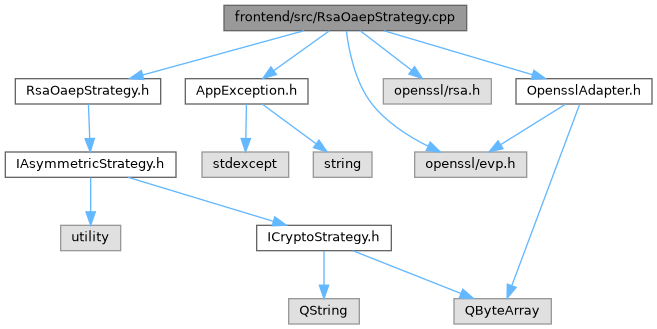
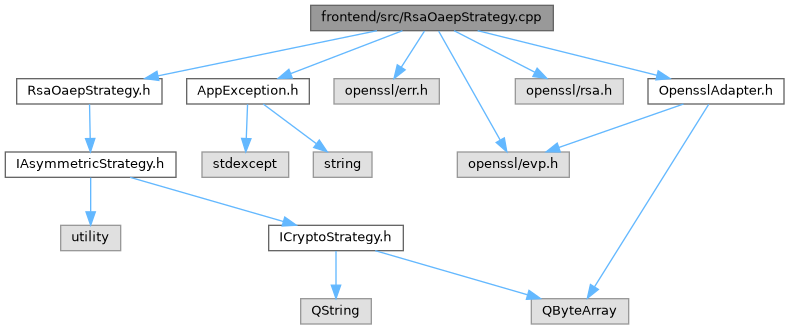
deploy: 8b2d20333b106642986e77c233f5373d51c01b63

diff --git a/NetworkManager_8h_source.html b/NetworkManager_8h_source.html
@@ -292,28 +292,28 @@ $(document).ready(function(){initNavTree('NetworkManager_8h_source.html',''); in
 <div class="ttc" id="aclassNetworkManager_html_a1e431ffe571e89103864c08eaea12488"><div class="ttname"><a href="classNetworkManager.html#a1e431ffe571e89103864c08eaea12488">NetworkManager::historySyncMessage</a></div><div class="ttdeci">void historySyncMessage(const QString &amp;peer, const QString &amp;sender, const QString &amp;content, const QString &amp;timestamp, bool isOutgoing)</div><div class="ttdoc">Emitted once per stored message during local history load on login.</div></div>
 <div class="ttc" id="aclassNetworkManager_html_a1ebefc3b8b1ad69040decb2ed1f3cb57"><div class="ttname"><a href="classNetworkManager.html#a1ebefc3b8b1ad69040decb2ed1f3cb57">NetworkManager::groupMessageDecrypted</a></div><div class="ttdeci">void groupMessageDecrypted(const QString &amp;groupId, const QString &amp;sender, const QString &amp;plaintext, const QString &amp;timestamp, bool isOutgoing)</div><div class="ttdoc">Emitted when an incoming group message is successfully decrypted.</div></div>
 <div class="ttc" id="aclassNetworkManager_html_a257318584ac0bf9569d5873314ad5d82"><div class="ttname"><a href="classNetworkManager.html#a257318584ac0bf9569d5873314ad5d82">NetworkManager::convListUpdated</a></div><div class="ttdeci">void convListUpdated(const QString &amp;peer, const QString &amp;lastMessage, const QString &amp;lastTimestamp)</div><div class="ttdoc">Emitted after loading local history and on new messages - updates conversation list.</div></div>
-<div class="ttc" id="aclassNetworkManager_html_a2e9f2e60df7673bec45af42c104d4f72"><div class="ttname"><a href="classNetworkManager.html#a2e9f2e60df7673bec45af42c104d4f72">NetworkManager::logout</a></div><div class="ttdeci">Q_INVOKABLE void logout()</div><div class="ttdoc">Clear session state and return to login without closing the WebSocket.</div><div class="ttdef"><b>Definition</b> NetworkManager.cpp:344</div></div>
+<div class="ttc" id="aclassNetworkManager_html_a2e9f2e60df7673bec45af42c104d4f72"><div class="ttname"><a href="classNetworkManager.html#a2e9f2e60df7673bec45af42c104d4f72">NetworkManager::logout</a></div><div class="ttdeci">Q_INVOKABLE void logout()</div><div class="ttdoc">Clear session state and return to login without closing the WebSocket.</div><div class="ttdef"><b>Definition</b> NetworkManager.cpp:349</div></div>
 <div class="ttc" id="aclassNetworkManager_html_a2f815193125adfb0eb520665d8a87f5c"><div class="ttname"><a href="classNetworkManager.html#a2f815193125adfb0eb520665d8a87f5c">NetworkManager::sendLogin</a></div><div class="ttdeci">Q_INVOKABLE void sendLogin(const QString &amp;username, const QString &amp;password)</div><div class="ttdoc">Send a LOGIN packet with username and password.</div><div class="ttdef"><b>Definition</b> NetworkManager.cpp:52</div></div>
-<div class="ttc" id="aclassNetworkManager_html_a33e99021de03ebe32588f703e0a27cdc"><div class="ttname"><a href="classNetworkManager.html#a33e99021de03ebe32588f703e0a27cdc">NetworkManager::deleteGroup</a></div><div class="ttdeci">Q_INVOKABLE void deleteGroup(const QString &amp;groupId)</div><div class="ttdoc">Send DELETE_GROUP packet to permanently delete the group (creator only).</div><div class="ttdef"><b>Definition</b> NetworkManager.cpp:482</div></div>
+<div class="ttc" id="aclassNetworkManager_html_a33e99021de03ebe32588f703e0a27cdc"><div class="ttname"><a href="classNetworkManager.html#a33e99021de03ebe32588f703e0a27cdc">NetworkManager::deleteGroup</a></div><div class="ttdeci">Q_INVOKABLE void deleteGroup(const QString &amp;groupId)</div><div class="ttdoc">Send DELETE_GROUP packet to permanently delete the group (creator only).</div><div class="ttdef"><b>Definition</b> NetworkManager.cpp:487</div></div>
 <div class="ttc" id="aclassNetworkManager_html_a3c9d18963e77a155faf338b86927e2e5"><div class="ttname"><a href="classNetworkManager.html#a3c9d18963e77a155faf338b86927e2e5">NetworkManager::disconnected</a></div><div class="ttdeci">void disconnected()</div></div>
-<div class="ttc" id="aclassNetworkManager_html_a42fd9a51d9f3036d7156a0d64bdbd08d"><div class="ttname"><a href="classNetworkManager.html#a42fd9a51d9f3036d7156a0d64bdbd08d">NetworkManager::leaveGroup</a></div><div class="ttdeci">Q_INVOKABLE void leaveGroup(const QString &amp;groupId)</div><div class="ttdoc">Leave a group voluntarily.</div><div class="ttdef"><b>Definition</b> NetworkManager.cpp:474</div></div>
-<div class="ttc" id="aclassNetworkManager_html_a487b7f0a5ef2af0dfd9e2b53959d308c"><div class="ttname"><a href="classNetworkManager.html#a487b7f0a5ef2af0dfd9e2b53959d308c">NetworkManager::grantAdmin</a></div><div class="ttdeci">Q_INVOKABLE void grantAdmin(const QString &amp;groupId, const QString &amp;username)</div><div class="ttdoc">Creator: grant admin role to a member.</div><div class="ttdef"><b>Definition</b> NetworkManager.cpp:464</div></div>
-<div class="ttc" id="aclassNetworkManager_html_a4cbb3b8a327c5af1f67b65a8cfe0ab8d"><div class="ttname"><a href="classNetworkManager.html#a4cbb3b8a327c5af1f67b65a8cfe0ab8d">NetworkManager::sendGroupMessage</a></div><div class="ttdeci">Q_INVOKABLE void sendGroupMessage(const QString &amp;groupId, const QString &amp;plaintext, const QString &amp;timestamp)</div><div class="ttdoc">Encrypt and send a group message.</div><div class="ttdef"><b>Definition</b> NetworkManager.cpp:404</div></div>
+<div class="ttc" id="aclassNetworkManager_html_a42fd9a51d9f3036d7156a0d64bdbd08d"><div class="ttname"><a href="classNetworkManager.html#a42fd9a51d9f3036d7156a0d64bdbd08d">NetworkManager::leaveGroup</a></div><div class="ttdeci">Q_INVOKABLE void leaveGroup(const QString &amp;groupId)</div><div class="ttdoc">Leave a group voluntarily.</div><div class="ttdef"><b>Definition</b> NetworkManager.cpp:479</div></div>
+<div class="ttc" id="aclassNetworkManager_html_a487b7f0a5ef2af0dfd9e2b53959d308c"><div class="ttname"><a href="classNetworkManager.html#a487b7f0a5ef2af0dfd9e2b53959d308c">NetworkManager::grantAdmin</a></div><div class="ttdeci">Q_INVOKABLE void grantAdmin(const QString &amp;groupId, const QString &amp;username)</div><div class="ttdoc">Creator: grant admin role to a member.</div><div class="ttdef"><b>Definition</b> NetworkManager.cpp:469</div></div>
+<div class="ttc" id="aclassNetworkManager_html_a4cbb3b8a327c5af1f67b65a8cfe0ab8d"><div class="ttname"><a href="classNetworkManager.html#a4cbb3b8a327c5af1f67b65a8cfe0ab8d">NetworkManager::sendGroupMessage</a></div><div class="ttdeci">Q_INVOKABLE void sendGroupMessage(const QString &amp;groupId, const QString &amp;plaintext, const QString &amp;timestamp)</div><div class="ttdoc">Encrypt and send a group message.</div><div class="ttdef"><b>Definition</b> NetworkManager.cpp:409</div></div>
 <div class="ttc" id="aclassNetworkManager_html_a57295b0fe8b8dcb07c51e40e3b7f01c5"><div class="ttname"><a href="classNetworkManager.html#a57295b0fe8b8dcb07c51e40e3b7f01c5">NetworkManager::groupHistorySyncMessage</a></div><div class="ttdeci">void groupHistorySyncMessage(const QString &amp;groupId, const QString &amp;sender, const QString &amp;content, const QString &amp;timestamp, bool isOutgoing)</div><div class="ttdoc">Emitted once per group message during local history load.</div></div>
 <div class="ttc" id="aclassNetworkManager_html_a5a95bfdbdf91e47e8341ef89bae23b9d"><div class="ttname"><a href="classNetworkManager.html#a5a95bfdbdf91e47e8341ef89bae23b9d">NetworkManager::currentUsernameChanged</a></div><div class="ttdeci">void currentUsernameChanged()</div></div>
 <div class="ttc" id="aclassNetworkManager_html_a5e470cae21687ac465bd3ded727f5c88"><div class="ttname"><a href="classNetworkManager.html#a5e470cae21687ac465bd3ded727f5c88">NetworkManager::messageSeen</a></div><div class="ttdeci">void messageSeen(const QString &amp;peer, const QString &amp;timestamp)</div><div class="ttdoc">Emitted when the recipient confirms they have read a specific message.</div></div>
 <div class="ttc" id="aclassNetworkManager_html_a603d801e6200da430707381ba39241c2"><div class="ttname"><a href="classNetworkManager.html#a603d801e6200da430707381ba39241c2">NetworkManager::messageReceived</a></div><div class="ttdeci">void messageReceived(const QString &amp;message)</div><div class="ttdoc">Raw inbound wire message forwarded to QML.</div></div>
 <div class="ttc" id="aclassNetworkManager_html_a63f17e322ae0d09f6c0c1d8b9c54a0b5"><div class="ttname"><a href="classNetworkManager.html#a63f17e322ae0d09f6c0c1d8b9c54a0b5">NetworkManager::connectionChanged</a></div><div class="ttdeci">void connectionChanged()</div></div>
 <div class="ttc" id="aclassNetworkManager_html_a6b6ee9cf02e7df2a766d5db74c4d2125"><div class="ttname"><a href="classNetworkManager.html#a6b6ee9cf02e7df2a766d5db74c4d2125">NetworkManager::errorOcurred</a></div><div class="ttdeci">void errorOcurred(const QString &amp;errorString)</div></div>
-<div class="ttc" id="aclassNetworkManager_html_a755b08070053e360640b1b9caa4d737d"><div class="ttname"><a href="classNetworkManager.html#a755b08070053e360640b1b9caa4d737d">NetworkManager::createGroup</a></div><div class="ttdeci">Q_INVOKABLE void createGroup(const QString &amp;name, const QStringList &amp;members)</div><div class="ttdoc">Create a new group. Encrypts AES key for each member via RSA.</div><div class="ttdef"><b>Definition</b> NetworkManager.cpp:370</div></div>
+<div class="ttc" id="aclassNetworkManager_html_a755b08070053e360640b1b9caa4d737d"><div class="ttname"><a href="classNetworkManager.html#a755b08070053e360640b1b9caa4d737d">NetworkManager::createGroup</a></div><div class="ttdeci">Q_INVOKABLE void createGroup(const QString &amp;name, const QStringList &amp;members)</div><div class="ttdoc">Create a new group. Encrypts AES key for each member via RSA.</div><div class="ttdef"><b>Definition</b> NetworkManager.cpp:375</div></div>
 <div class="ttc" id="aclassNetworkManager_html_a91ed9c1374f6c18b78c66aec883da39a"><div class="ttname"><a href="classNetworkManager.html#a91ed9c1374f6c18b78c66aec883da39a">NetworkManager::syncComplete</a></div><div class="ttdeci">void syncComplete()</div><div class="ttdoc">Emitted after the server ACKs a SYNC_HISTORY request.</div></div>
 <div class="ttc" id="aclassNetworkManager_html_a9bc6679afab43814e185aecb262cedaa"><div class="ttname"><a href="classNetworkManager.html#a9bc6679afab43814e185aecb262cedaa">NetworkManager::markConversationRead</a></div><div class="ttdeci">Q_INVOKABLE void markConversationRead(const QString &amp;peer)</div><div class="ttdoc">Send READ_RECEIPT packets for all unread messages from peer.</div><div class="ttdef"><b>Definition</b> NetworkManager.cpp:91</div></div>
-<div class="ttc" id="aclassNetworkManager_html_a9fddd966911296b4a40f1fda0362f57a"><div class="ttname"><a href="classNetworkManager.html#a9fddd966911296b4a40f1fda0362f57a">NetworkManager::getGroupName</a></div><div class="ttdeci">Q_INVOKABLE QString getGroupName(const QString &amp;groupId) const</div><div class="ttdoc">Return the stored display name for a group, or groupId if unknown.</div><div class="ttdef"><b>Definition</b> NetworkManager.cpp:610</div></div>
+<div class="ttc" id="aclassNetworkManager_html_a9fddd966911296b4a40f1fda0362f57a"><div class="ttname"><a href="classNetworkManager.html#a9fddd966911296b4a40f1fda0362f57a">NetworkManager::getGroupName</a></div><div class="ttdeci">Q_INVOKABLE QString getGroupName(const QString &amp;groupId) const</div><div class="ttdoc">Return the stored display name for a group, or groupId if unknown.</div><div class="ttdef"><b>Definition</b> NetworkManager.cpp:615</div></div>
 <div class="ttc" id="aclassNetworkManager_html_aa077749a5aa5408084811f07643df6a9"><div class="ttname"><a href="classNetworkManager.html#aa077749a5aa5408084811f07643df6a9">NetworkManager::sendMessage</a></div><div class="ttdeci">Q_INVOKABLE void sendMessage(const QString &amp;to, const QString &amp;plaintext, const QString &amp;timestamp=QString())</div><div class="ttdoc">Encrypt plaintext and send a MESSAGE packet to 'to'.</div><div class="ttdef"><b>Definition</b> NetworkManager.cpp:61</div></div>
 <div class="ttc" id="aclassNetworkManager_html_aa2d7233230f2d609c31d9fd064c2f461"><div class="ttname"><a href="classNetworkManager.html#aa2d7233230f2d609c31d9fd064c2f461">NetworkManager::connected</a></div><div class="ttdeci">void connected()</div></div>
 <div class="ttc" id="aclassNetworkManager_html_aa5e7b25d9a603077169f10aa9bc0485d"><div class="ttname"><a href="classNetworkManager.html#aa5e7b25d9a603077169f10aa9bc0485d">NetworkManager::connectToServer</a></div><div class="ttdeci">void connectToServer(const QUrl &amp;url)</div><div class="ttdoc">Open a WebSocket connection to the given URL.</div><div class="ttdef"><b>Definition</b> NetworkManager.cpp:32</div></div>
 <div class="ttc" id="aclassNetworkManager_html_aa9be8fd0f61070537dcda37964be6986"><div class="ttname"><a href="classNetworkManager.html#aa9be8fd0f61070537dcda37964be6986">NetworkManager::fetchPeerKey</a></div><div class="ttdeci">Q_INVOKABLE void fetchPeerKey(const QString &amp;username)</div><div class="ttdoc">Request peer's RSA public key from the server.</div><div class="ttdef"><b>Definition</b> NetworkManager.cpp:71</div></div>
-<div class="ttc" id="aclassNetworkManager_html_ab0e4e845f992abd7842feb9ef8a83ae3"><div class="ttname"><a href="classNetworkManager.html#ab0e4e845f992abd7842feb9ef8a83ae3">NetworkManager::addGroupMember</a></div><div class="ttdeci">Q_INVOKABLE void addGroupMember(const QString &amp;groupId, const QString &amp;username)</div><div class="ttdoc">Admin: add a new member to a group.</div><div class="ttdef"><b>Definition</b> NetworkManager.cpp:440</div></div>
+<div class="ttc" id="aclassNetworkManager_html_ab0e4e845f992abd7842feb9ef8a83ae3"><div class="ttname"><a href="classNetworkManager.html#ab0e4e845f992abd7842feb9ef8a83ae3">NetworkManager::addGroupMember</a></div><div class="ttdeci">Q_INVOKABLE void addGroupMember(const QString &amp;groupId, const QString &amp;username)</div><div class="ttdoc">Admin: add a new member to a group.</div><div class="ttdef"><b>Definition</b> NetworkManager.cpp:445</div></div>
 <div class="ttc" id="aclassNetworkManager_html_ab7c6e64b70fa96f558f026d263f1424b"><div class="ttname"><a href="classNetworkManager.html#ab7c6e64b70fa96f558f026d263f1424b">NetworkManager::groupInviteReceived</a></div><div class="ttdeci">void groupInviteReceived(const QString &amp;groupId, const QString &amp;groupName)</div><div class="ttdoc">Emitted when the server sends a GROUP_INVITE packet for the current user.</div></div>
 <div class="ttc" id="aclassNetworkManager_html_abd6c36aa7591e7b20dcf761b90e718fa"><div class="ttname"><a href="classNetworkManager.html#abd6c36aa7591e7b20dcf761b90e718fa">NetworkManager::groupInfoReceived</a></div><div class="ttdeci">void groupInfoReceived(const QString &amp;groupId, const QString &amp;groupName, const QVariantList &amp;members)</div><div class="ttdoc">Emitted when group info (member list, roles) is received from the server.</div></div>
 <div class="ttc" id="aclassNetworkManager_html_acb5092184a7b088b3fa60f61106320cb"><div class="ttname"><a href="classNetworkManager.html#acb5092184a7b088b3fa60f61106320cb">NetworkManager::lastMessage</a></div><div class="ttdeci">QString lastMessage</div><div class="ttdef"><b>Definition</b> NetworkManager.h:29</div></div>
@@ -322,9 +322,9 @@ $(document).ready(function(){initNavTree('NetworkManager_8h_source.html',''); in
 <div class="ttc" id="aclassNetworkManager_html_ad1a01cd412a0dde3f4e1dc77ad46e253"><div class="ttname"><a href="classNetworkManager.html#ad1a01cd412a0dde3f4e1dc77ad46e253">NetworkManager::sendSyncHistory</a></div><div class="ttdeci">Q_INVOKABLE void sendSyncHistory()</div><div class="ttdoc">Ask the server to push all missed messages for current user.</div><div class="ttdef"><b>Definition</b> NetworkManager.cpp:79</div></div>
 <div class="ttc" id="aclassNetworkManager_html_ae433b408a3a5b19bc4155008aa2f93ea"><div class="ttname"><a href="classNetworkManager.html#ae433b408a3a5b19bc4155008aa2f93ea">NetworkManager::lastMessageChanged</a></div><div class="ttdeci">void lastMessageChanged()</div></div>
 <div class="ttc" id="aclassNetworkManager_html_ae7c5fa5545a263b2e75c41b9aaa6f2ba"><div class="ttname"><a href="classNetworkManager.html#ae7c5fa5545a263b2e75c41b9aaa6f2ba">NetworkManager::groupConvUpdated</a></div><div class="ttdeci">void groupConvUpdated(const QString &amp;groupId, const QString &amp;groupName, const QString &amp;lastMessage, const QString &amp;lastTimestamp)</div><div class="ttdoc">Emitted once per group during local history load for sidebar population.</div></div>
-<div class="ttc" id="aclassNetworkManager_html_ae8e6cd3d31f5d221cabad85e21ddc009"><div class="ttname"><a href="classNetworkManager.html#ae8e6cd3d31f5d221cabad85e21ddc009">NetworkManager::fetchGroupInfo</a></div><div class="ttdeci">Q_INVOKABLE void fetchGroupInfo(const QString &amp;groupId)</div><div class="ttdoc">Request updated group info (member list, roles).</div><div class="ttdef"><b>Definition</b> NetworkManager.cpp:490</div></div>
+<div class="ttc" id="aclassNetworkManager_html_ae8e6cd3d31f5d221cabad85e21ddc009"><div class="ttname"><a href="classNetworkManager.html#ae8e6cd3d31f5d221cabad85e21ddc009">NetworkManager::fetchGroupInfo</a></div><div class="ttdeci">Q_INVOKABLE void fetchGroupInfo(const QString &amp;groupId)</div><div class="ttdoc">Request updated group info (member list, roles).</div><div class="ttdef"><b>Definition</b> NetworkManager.cpp:495</div></div>
 <div class="ttc" id="aclassNetworkManager_html_af0902bd618f601ae0c472243a8a3e9bc"><div class="ttname"><a href="classNetworkManager.html#af0902bd618f601ae0c472243a8a3e9bc">NetworkManager::groupLeft</a></div><div class="ttdeci">void groupLeft(const QString &amp;groupId)</div><div class="ttdoc">Emitted when the current user has successfully left a group.</div></div>
-<div class="ttc" id="aclassNetworkManager_html_af19a5e79c92bb2c5beb0e4bcd2f8c2a2"><div class="ttname"><a href="classNetworkManager.html#af19a5e79c92bb2c5beb0e4bcd2f8c2a2">NetworkManager::kickMember</a></div><div class="ttdeci">Q_INVOKABLE void kickMember(const QString &amp;groupId, const QString &amp;username)</div><div class="ttdoc">Admin: kick a member from a group.</div><div class="ttdef"><b>Definition</b> NetworkManager.cpp:431</div></div>
+<div class="ttc" id="aclassNetworkManager_html_af19a5e79c92bb2c5beb0e4bcd2f8c2a2"><div class="ttname"><a href="classNetworkManager.html#af19a5e79c92bb2c5beb0e4bcd2f8c2a2">NetworkManager::kickMember</a></div><div class="ttdeci">Q_INVOKABLE void kickMember(const QString &amp;groupId, const QString &amp;username)</div><div class="ttdoc">Admin: kick a member from a group.</div><div class="ttdef"><b>Definition</b> NetworkManager.cpp:436</div></div>
 <div class="ttc" id="aclassNetworkManager_html_af4a48bde3701cd396dc455b413b3e8f6"><div class="ttname"><a href="classNetworkManager.html#af4a48bde3701cd396dc455b413b3e8f6">NetworkManager::messageDelivered</a></div><div class="ttdeci">void messageDelivered(const QString &amp;timestamp)</div><div class="ttdoc">Emitted when the server confirms receipt of an outgoing message.</div></div>
 <div class="ttc" id="aclassNetworkManager_html_af4bbe1ae11e54eb1c5a7f1ce07a51af2"><div class="ttname"><a href="classNetworkManager.html#af4bbe1ae11e54eb1c5a7f1ce07a51af2">NetworkManager::isConnected</a></div><div class="ttdeci">bool isConnected</div><div class="ttdef"><b>Definition</b> NetworkManager.h:28</div></div>
 <div class="ttc" id="astructPacket_html"><div class="ttname"><a href="structPacket.html">Packet</a></div><div class="ttdef"><b>Definition</b> protocol.h:29</div></div>

diff --git a/RsaOaepStrategy_8h_source.html b/RsaOaepStrategy_8h_source.html
@@ -124,15 +124,15 @@ $(document).ready(function(){initNavTree('RsaOaepStrategy_8h_source.html',''); i
 <div class="ttc" id="aIAsymmetricStrategy_8h_html"><div class="ttname"><a href="IAsymmetricStrategy_8h.html">IAsymmetricStrategy.h</a></div></div>
 <div class="ttc" id="aclassIAsymmetricStrategy_html"><div class="ttname"><a href="classIAsymmetricStrategy.html">IAsymmetricStrategy</a></div><div class="ttdoc">Abstract interface for asymmetric encryption strategies.</div><div class="ttdef"><b>Definition</b> IAsymmetricStrategy.h:13</div></div>
 <div class="ttc" id="aclassRsaOaepStrategy_html"><div class="ttname"><a href="classRsaOaepStrategy.html">RsaOaepStrategy</a></div><div class="ttdoc">RSA-2048-OAEP asymmetric encryption strategy (L3 concrete).</div><div class="ttdef"><b>Definition</b> RsaOaepStrategy.h:13</div></div>
-<div class="ttc" id="aclassRsaOaepStrategy_html_a07be70e0db7b368b6928e757f143527e"><div class="ttname"><a href="classRsaOaepStrategy.html#a07be70e0db7b368b6928e757f143527e">RsaOaepStrategy::encryptWithPublic</a></div><div class="ttdeci">QByteArray encryptWithPublic(const QByteArray &amp;data, const QByteArray &amp;publicKey) override</div><div class="ttdoc">Encrypt data with RSA-2048-OAEP using a PEM-encoded public key.</div><div class="ttdef"><b>Definition</b> RsaOaepStrategy.cpp:39</div></div>
-<div class="ttc" id="aclassRsaOaepStrategy_html_a15222d5ae65fd8ac2dfe20ad6c6aebfc"><div class="ttname"><a href="classRsaOaepStrategy.html#a15222d5ae65fd8ac2dfe20ad6c6aebfc">RsaOaepStrategy::decryptWithPrivate</a></div><div class="ttdeci">QByteArray decryptWithPrivate(const QByteArray &amp;data, const QByteArray &amp;privateKey) override</div><div class="ttdoc">Decrypt data with RSA-2048-OAEP using a PEM-encoded private key.</div><div class="ttdef"><b>Definition</b> RsaOaepStrategy.cpp:65</div></div>
-<div class="ttc" id="aclassRsaOaepStrategy_html_a22ad8ea04907f84752061f5c6e4717a0"><div class="ttname"><a href="classRsaOaepStrategy.html#a22ad8ea04907f84752061f5c6e4717a0">RsaOaepStrategy::generateKeypair</a></div><div class="ttdeci">std::pair&lt; QByteArray, QByteArray &gt; generateKeypair() override</div><div class="ttdoc">Generate a 2048-bit RSA keypair. Returns {publicPem, privatePem}.</div><div class="ttdef"><b>Definition</b> RsaOaepStrategy.cpp:20</div></div>
+<div class="ttc" id="aclassRsaOaepStrategy_html_a07be70e0db7b368b6928e757f143527e"><div class="ttname"><a href="classRsaOaepStrategy.html#a07be70e0db7b368b6928e757f143527e">RsaOaepStrategy::encryptWithPublic</a></div><div class="ttdeci">QByteArray encryptWithPublic(const QByteArray &amp;data, const QByteArray &amp;publicKey) override</div><div class="ttdoc">Encrypt data with RSA-2048-OAEP using a PEM-encoded public key.</div><div class="ttdef"><b>Definition</b> RsaOaepStrategy.cpp:40</div></div>
+<div class="ttc" id="aclassRsaOaepStrategy_html_a15222d5ae65fd8ac2dfe20ad6c6aebfc"><div class="ttname"><a href="classRsaOaepStrategy.html#a15222d5ae65fd8ac2dfe20ad6c6aebfc">RsaOaepStrategy::decryptWithPrivate</a></div><div class="ttdeci">QByteArray decryptWithPrivate(const QByteArray &amp;data, const QByteArray &amp;privateKey) override</div><div class="ttdoc">Decrypt data with RSA-2048-OAEP using a PEM-encoded private key.</div><div class="ttdef"><b>Definition</b> RsaOaepStrategy.cpp:66</div></div>
+<div class="ttc" id="aclassRsaOaepStrategy_html_a22ad8ea04907f84752061f5c6e4717a0"><div class="ttname"><a href="classRsaOaepStrategy.html#a22ad8ea04907f84752061f5c6e4717a0">RsaOaepStrategy::generateKeypair</a></div><div class="ttdeci">std::pair&lt; QByteArray, QByteArray &gt; generateKeypair() override</div><div class="ttdoc">Generate a 2048-bit RSA keypair. Returns {publicPem, privatePem}.</div><div class="ttdef"><b>Definition</b> RsaOaepStrategy.cpp:21</div></div>
 <div class="ttc" id="aclassRsaOaepStrategy_html_a680f1e962f75d4598e53f65404d19bfa"><div class="ttname"><a href="classRsaOaepStrategy.html#a680f1e962f75d4598e53f65404d19bfa">RsaOaepStrategy::RsaOaepStrategy</a></div><div class="ttdeci">RsaOaepStrategy()=default</div></div>
 <div class="ttc" id="aclassRsaOaepStrategy_html_a6ce11eb2de83fc21a610c270fde08c97"><div class="ttname"><a href="classRsaOaepStrategy.html#a6ce11eb2de83fc21a610c270fde08c97">RsaOaepStrategy::~RsaOaepStrategy</a></div><div class="ttdeci">~RsaOaepStrategy() override=default</div></div>
 <div class="ttc" id="aclassRsaOaepStrategy_html_aa4931b6b182e3a8ee395903a24a63dc5"><div class="ttname"><a href="classRsaOaepStrategy.html#aa4931b6b182e3a8ee395903a24a63dc5">RsaOaepStrategy::KEY_BITS</a></div><div class="ttdeci">static constexpr int KEY_BITS</div><div class="ttdoc">RSA modulus size in bits.</div><div class="ttdef"><b>Definition</b> RsaOaepStrategy.h:42</div></div>
-<div class="ttc" id="aclassRsaOaepStrategy_html_aac4c21958f83bba5c448e3afafa754a6"><div class="ttname"><a href="classRsaOaepStrategy.html#aac4c21958f83bba5c448e3afafa754a6">RsaOaepStrategy::encrypt</a></div><div class="ttdeci">QByteArray encrypt(const QByteArray &amp;data, const QByteArray &amp;key) override</div><div class="ttdoc">ICryptoStrategy::encrypt — delegates to encryptWithPublic().</div><div class="ttdef"><b>Definition</b> RsaOaepStrategy.cpp:92</div></div>
-<div class="ttc" id="aclassRsaOaepStrategy_html_acb334169a1640c1a622f28f2d9a226ef"><div class="ttname"><a href="classRsaOaepStrategy.html#acb334169a1640c1a622f28f2d9a226ef">RsaOaepStrategy::decrypt</a></div><div class="ttdeci">QByteArray decrypt(const QByteArray &amp;data, const QByteArray &amp;key) override</div><div class="ttdoc">ICryptoStrategy::decrypt — delegates to decryptWithPrivate().</div><div class="ttdef"><b>Definition</b> RsaOaepStrategy.cpp:96</div></div>
-<div class="ttc" id="aclassRsaOaepStrategy_html_ade46c39bd5babe08aa6334331c9b6fb1"><div class="ttname"><a href="classRsaOaepStrategy.html#ade46c39bd5babe08aa6334331c9b6fb1">RsaOaepStrategy::name</a></div><div class="ttdeci">QString name() const override</div><div class="ttdoc">Returns &quot;RSA-2048-OAEP&quot;.</div><div class="ttdef"><b>Definition</b> RsaOaepStrategy.cpp:100</div></div>
+<div class="ttc" id="aclassRsaOaepStrategy_html_aac4c21958f83bba5c448e3afafa754a6"><div class="ttname"><a href="classRsaOaepStrategy.html#aac4c21958f83bba5c448e3afafa754a6">RsaOaepStrategy::encrypt</a></div><div class="ttdeci">QByteArray encrypt(const QByteArray &amp;data, const QByteArray &amp;key) override</div><div class="ttdoc">ICryptoStrategy::encrypt — delegates to encryptWithPublic().</div><div class="ttdef"><b>Definition</b> RsaOaepStrategy.cpp:97</div></div>
+<div class="ttc" id="aclassRsaOaepStrategy_html_acb334169a1640c1a622f28f2d9a226ef"><div class="ttname"><a href="classRsaOaepStrategy.html#acb334169a1640c1a622f28f2d9a226ef">RsaOaepStrategy::decrypt</a></div><div class="ttdeci">QByteArray decrypt(const QByteArray &amp;data, const QByteArray &amp;key) override</div><div class="ttdoc">ICryptoStrategy::decrypt — delegates to decryptWithPrivate().</div><div class="ttdef"><b>Definition</b> RsaOaepStrategy.cpp:101</div></div>
+<div class="ttc" id="aclassRsaOaepStrategy_html_ade46c39bd5babe08aa6334331c9b6fb1"><div class="ttname"><a href="classRsaOaepStrategy.html#ade46c39bd5babe08aa6334331c9b6fb1">RsaOaepStrategy::name</a></div><div class="ttdeci">QString name() const override</div><div class="ttdoc">Returns &quot;RSA-2048-OAEP&quot;.</div><div class="ttdef"><b>Definition</b> RsaOaepStrategy.cpp:105</div></div>
 </div><!-- fragment --></div><!-- contents -->
 </div><!-- doc-content -->
 <!-- start footer part -->

diff --git a/RsaOaepStrategy_8cpp.html b/RsaOaepStrategy_8cpp.html
@@ -94,6 +94,7 @@ $(document).ready(function(){initNavTree('RsaOaepStrategy_8cpp.html',''); initRe
 <div class="contents">
 <div class="textblock"><code>#include &quot;<a class="el" href="RsaOaepStrategy_8h_source.html">RsaOaepStrategy.h</a>&quot;</code><br />
 <code>#include &lt;<a class="el" href="AppException_8h_source.html">AppException.h</a>&gt;</code><br />
+<code>#include &lt;openssl/err.h&gt;</code><br />
 <code>#include &lt;openssl/evp.h&gt;</code><br />
 <code>#include &lt;openssl/rsa.h&gt;</code><br />
 <code>#include &quot;<a class="el" href="OpensslAdapter_8h_source.html">OpensslAdapter.h</a>&quot;</code><br />
@@ -102,33 +103,35 @@ Include dependency graph for RsaOaepStrategy.cpp:</div>
 <div class="dyncontent">
 <div class="center"><img src="RsaOaepStrategy_8cpp__incl.png" border="0" usemap="#afrontend_2src_2RsaOaepStrategy_8cpp" alt=""/></div>
 <map name="afrontend_2src_2RsaOaepStrategy_8cpp" id="afrontend_2src_2RsaOaepStrategy_8cpp">
-<area shape="rect" title=" " alt="" coords="224,5,467,31"/>
-<area shape="rect" href="RsaOaepStrategy_8h.html" title=" " alt="" coords="15,79,161,104"/>
-<area shape="poly" title=" " alt="" coords="305,33,143,78,142,72,303,28"/>
-<area shape="rect" href="AppException_8h.html" title=" " alt="" coords="185,79,308,104"/>
-<area shape="poly" title=" " alt="" coords="331,33,275,73,272,68,328,29"/>
-<area shape="rect" title=" " alt="" coords="415,152,527,177"/>
-<area shape="poly" title=" " alt="" coords="349,30,356,65,363,85,374,102,400,126,429,144,427,148,396,130,370,106,359,87,351,67,344,31"/>
-<area shape="rect" title=" " alt="" coords="383,79,491,104"/>
-<area shape="poly" title=" " alt="" coords="362,29,413,68,410,72,358,33"/>
-<area shape="rect" href="OpensslAdapter_8h.html" title=" " alt="" coords="516,79,652,104"/>
-<area shape="poly" title=" " alt="" coords="384,28,533,72,531,77,383,33"/>
+<area shape="rect" title=" " alt="" coords="311,5,553,31"/>
+<area shape="rect" href="RsaOaepStrategy_8h.html" title=" " alt="" coords="17,79,162,104"/>
+<area shape="poly" title=" " alt="" coords="377,33,159,78,158,73,376,28"/>
+<area shape="rect" href="AppException_8h.html" title=" " alt="" coords="187,79,309,104"/>
+<area shape="poly" title=" " alt="" coords="403,33,292,76,290,71,401,28"/>
+<area shape="rect" title=" " alt="" coords="334,79,439,104"/>
+<area shape="poly" title=" " alt="" coords="427,32,404,69,399,66,422,30"/>
+<area shape="rect" title=" " alt="" coords="457,152,569,177"/>
+<area shape="poly" title=" " alt="" coords="441,30,502,139,498,141,436,32"/>
+<area shape="rect" title=" " alt="" coords="515,79,623,104"/>
+<area shape="poly" title=" " alt="" coords="455,28,536,70,534,75,453,33"/>
+<area shape="rect" href="OpensslAdapter_8h.html" title=" " alt="" coords="648,79,784,104"/>
+<area shape="poly" title=" " alt="" coords="478,28,658,73,656,78,477,33"/>
 <area shape="rect" href="IAsymmetricStrategy_8h.html" title=" " alt="" coords="5,152,176,177"/>
-<area shape="poly" title=" " alt="" coords="91,104,92,138,87,139,86,104"/>
+<area shape="poly" title=" " alt="" coords="92,104,93,138,88,139,87,104"/>
 <area shape="rect" title=" " alt="" coords="61,225,121,251"/>
 <area shape="poly" title=" " alt="" coords="93,178,93,212,88,212,88,178"/>
-<area shape="rect" href="ICryptoStrategy_8h.html" title=" " alt="" coords="257,225,391,251"/>
-<area shape="poly" title=" " alt="" coords="129,175,274,219,273,224,127,180"/>
-<area shape="rect" title=" " alt="" coords="454,299,551,324"/>
-<area shape="poly" title=" " alt="" coords="354,248,462,291,460,296,352,253"/>
-<area shape="rect" title=" " alt="" coords="289,299,359,324"/>
-<area shape="poly" title=" " alt="" coords="327,251,327,285,321,285,321,251"/>
+<area shape="rect" href="ICryptoStrategy_8h.html" title=" " alt="" coords="269,225,403,251"/>
+<area shape="poly" title=" " alt="" coords="131,175,284,219,283,224,129,180"/>
+<area shape="rect" title=" " alt="" coords="531,299,629,324"/>
+<area shape="poly" title=" " alt="" coords="376,248,528,292,527,297,374,253"/>
+<area shape="rect" title=" " alt="" coords="301,299,371,324"/>
+<area shape="poly" title=" " alt="" coords="339,251,339,285,333,285,333,251"/>
 <area shape="rect" title=" " alt="" coords="202,152,289,177"/>
-<area shape="poly" title=" " alt="" coords="249,104,248,139,243,138,244,104"/>
+<area shape="poly" title=" " alt="" coords="250,104,249,139,244,138,245,104"/>
 <area shape="rect" title=" " alt="" coords="313,152,372,177"/>
-<area shape="poly" title=" " alt="" coords="264,102,317,141,314,146,261,106"/>
-<area shape="poly" title=" " alt="" coords="582,105,514,287,509,285,577,103"/>
-<area shape="poly" title=" " alt="" coords="567,106,502,147,499,142,564,102"/>
+<area shape="poly" title=" " alt="" coords="265,102,318,141,315,146,262,106"/>
+<area shape="poly" title=" " alt="" coords="711,106,597,288,592,285,706,103"/>
+<area shape="poly" title=" " alt="" coords="684,107,560,150,558,145,683,102"/>
 </map>
 </div>
 </div></div><!-- contents -->
